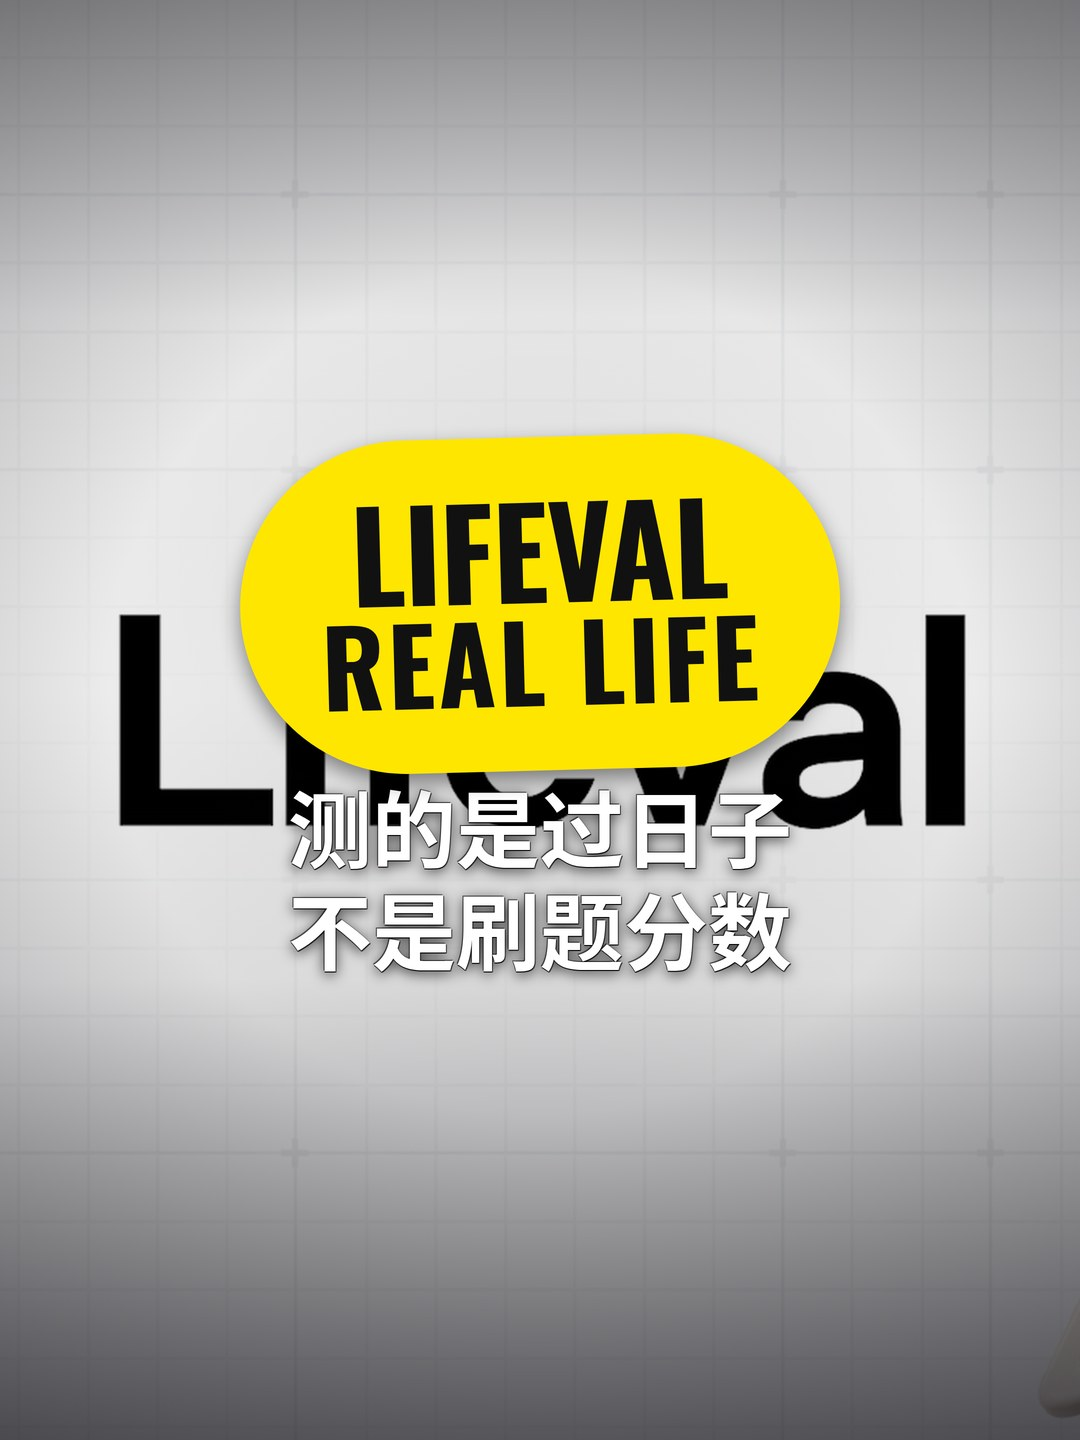
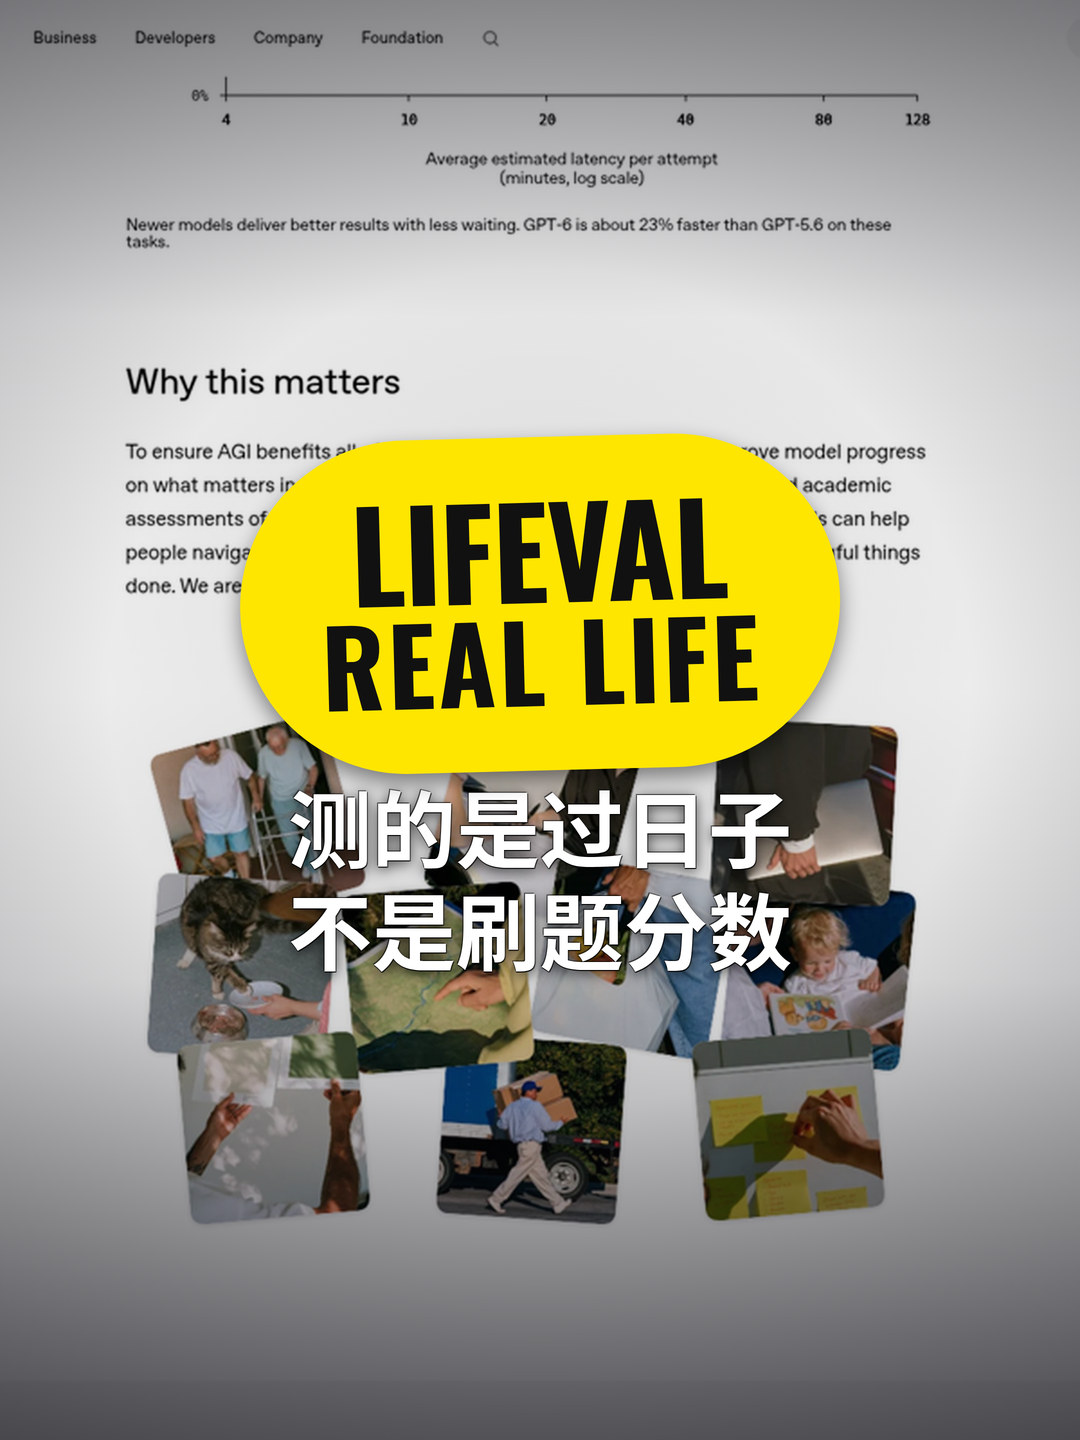
tvp: refresh OpenAI LifeVal remake covers + copy page
Diverse beat remake (official page captures + X clips); B Hypebeast primary.

diff --git a/public/tvp/openai-lifeval/index.html b/public/tvp/openai-lifeval/index.html
@@ -29,14 +29,14 @@ main { max-width:720px; margin:0 auto; padding:16px 18px 48px; display:flex; fle
 <header>
   <a class="back" href="../">← 选题库</a>
   <h1>OpenAI LifeVal：测会不会过日子</h1>
-  <p>2026-11-02 · 日常办事评测 · 3,995 问卷 · 找房 100% · B=Hypebeast 主推 · 点「复制」直接粘贴发帖</p>
+  <p>2026-11-02 · 视觉多样性 remake · B=Hypebeast 主推 · 点「复制」直接粘贴发帖</p>
 </header>
 <div class="covers">
-  <a href="./cover_A.jpg" target="_blank" rel="noopener"><img src="./cover_A.jpg" alt="封面 A"></a>
-  <a href="./cover_B.jpg" target="_blank" rel="noopener"><img src="./cover_B.jpg" alt="封面 B"></a>
+  <a href="./cover_B.jpg" target="_blank" rel="noopener"><img src="./cover_B.jpg" alt="封面 B 主推"></a>
+  <a href="./cover_A.jpg" target="_blank" rel="noopener"><img src="./cover_A.jpg" alt="封面 A 备选"></a>
 </div>
 <main>
-  <p class="hint">A / B / C 三版各点一次复制；手机也可用。抖音上传请用工程 posters/douyin_upload 的 1080×1440 JPG，勿转发微信再传。聊天气泡优先附 B JPG。</p>
+  <p class="hint">聊天气泡与抖音优先附 B 的 1080×1440 JPG（工程 posters/douyin_upload）；勿转发微信再传。下图左 B 右 A。</p>
   <section class="block">
   <div class="block-h">
     <h2>A · 主推版</h2>
@@ -87,17 +87,17 @@ main { max-width:720px; margin:0 auto; padding:16px 18px 48px; display:flex; fle
 </main>
 <script>
 async function copyText(btn) {
-  const id = btn.getAttribute('data-target');
-  const text = document.getElementById(id).innerText;
+  const el = document.getElementById(btn.getAttribute('data-target'));
+  const text = el.innerText;
   try {
     await navigator.clipboard.writeText(text);
-    btn.classList.add('copied'); btn.textContent = '已复制';
-    setTimeout(() => { btn.classList.remove('copied'); btn.textContent = '复制'; }, 1600);
   } catch (e) {
-    const r = document.createRange(); r.selectNodeContents(document.getElementById(id));
-    const s = window.getSelection(); s.removeAllRanges(); s.addRange(r);
-    alert('请长按选区复制');
+    const ta = document.createElement('textarea');
+    ta.value = text; document.body.appendChild(ta); ta.select(); document.execCommand('copy'); ta.remove();
   }
+  btn.textContent = '已复制';
+  btn.classList.add('copied');
+  setTimeout(() => { btn.textContent = '复制'; btn.classList.remove('copied'); }, 1500);
 }
 </script>
 </body>
